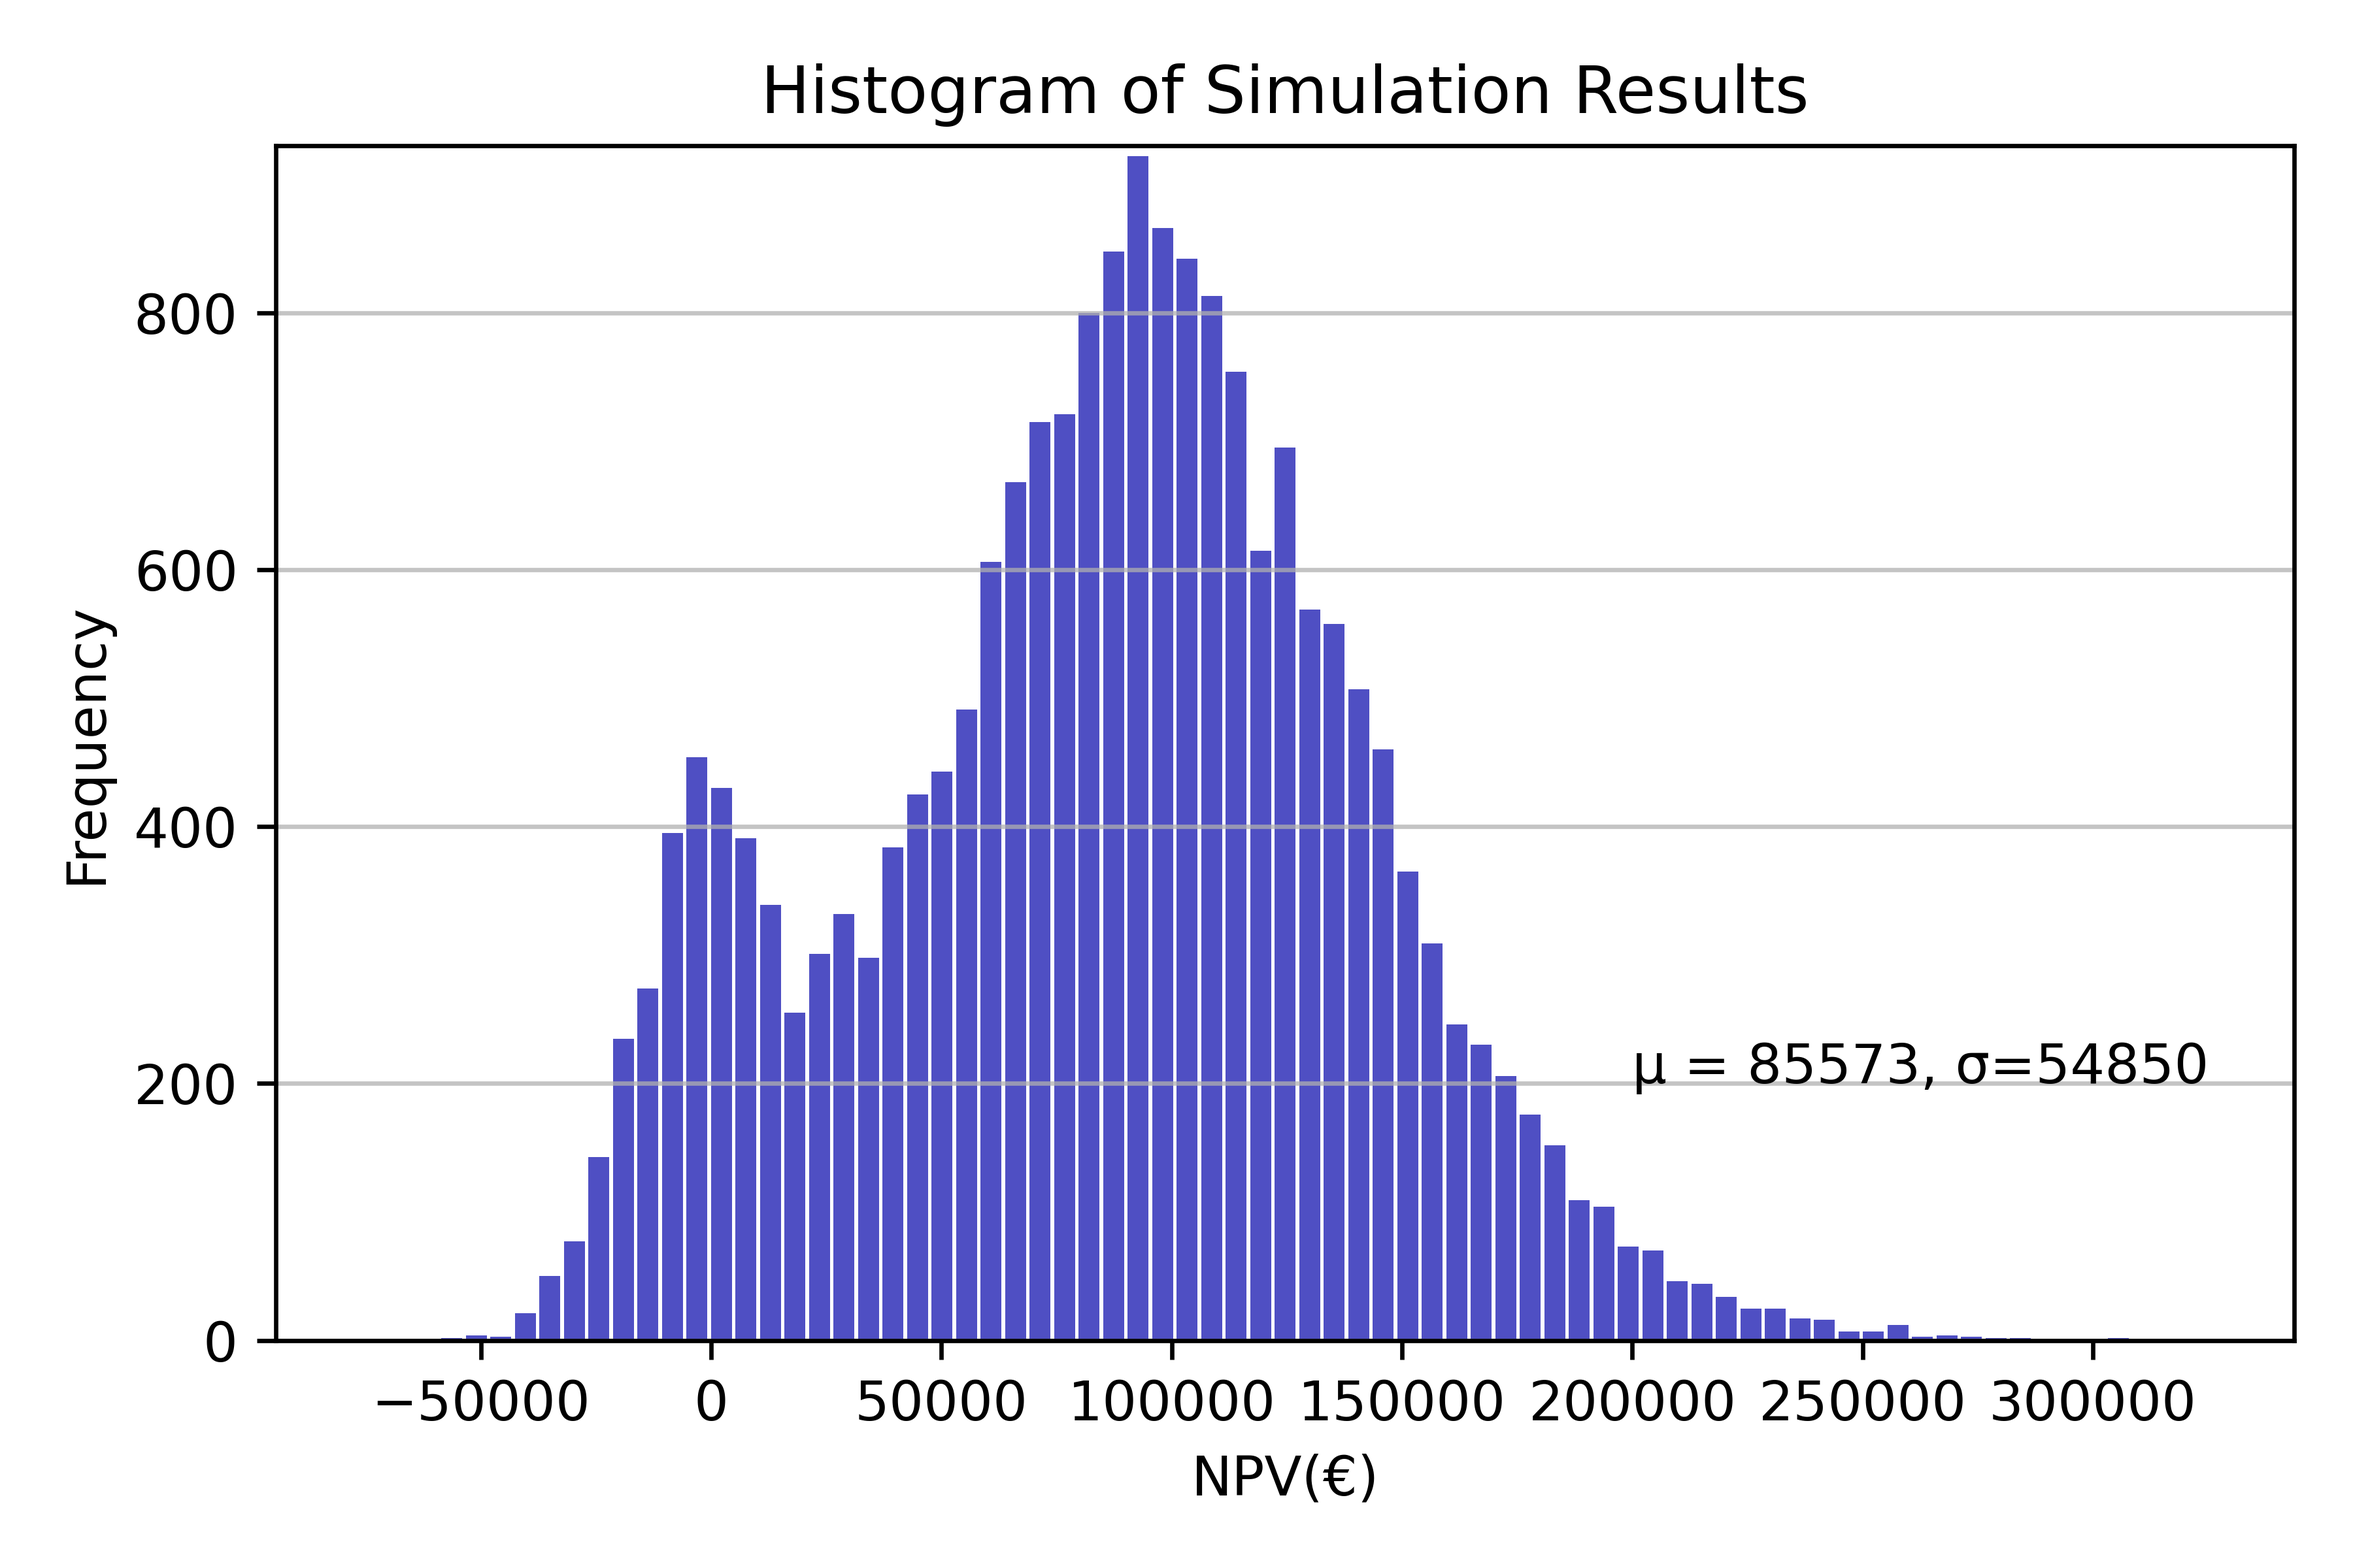
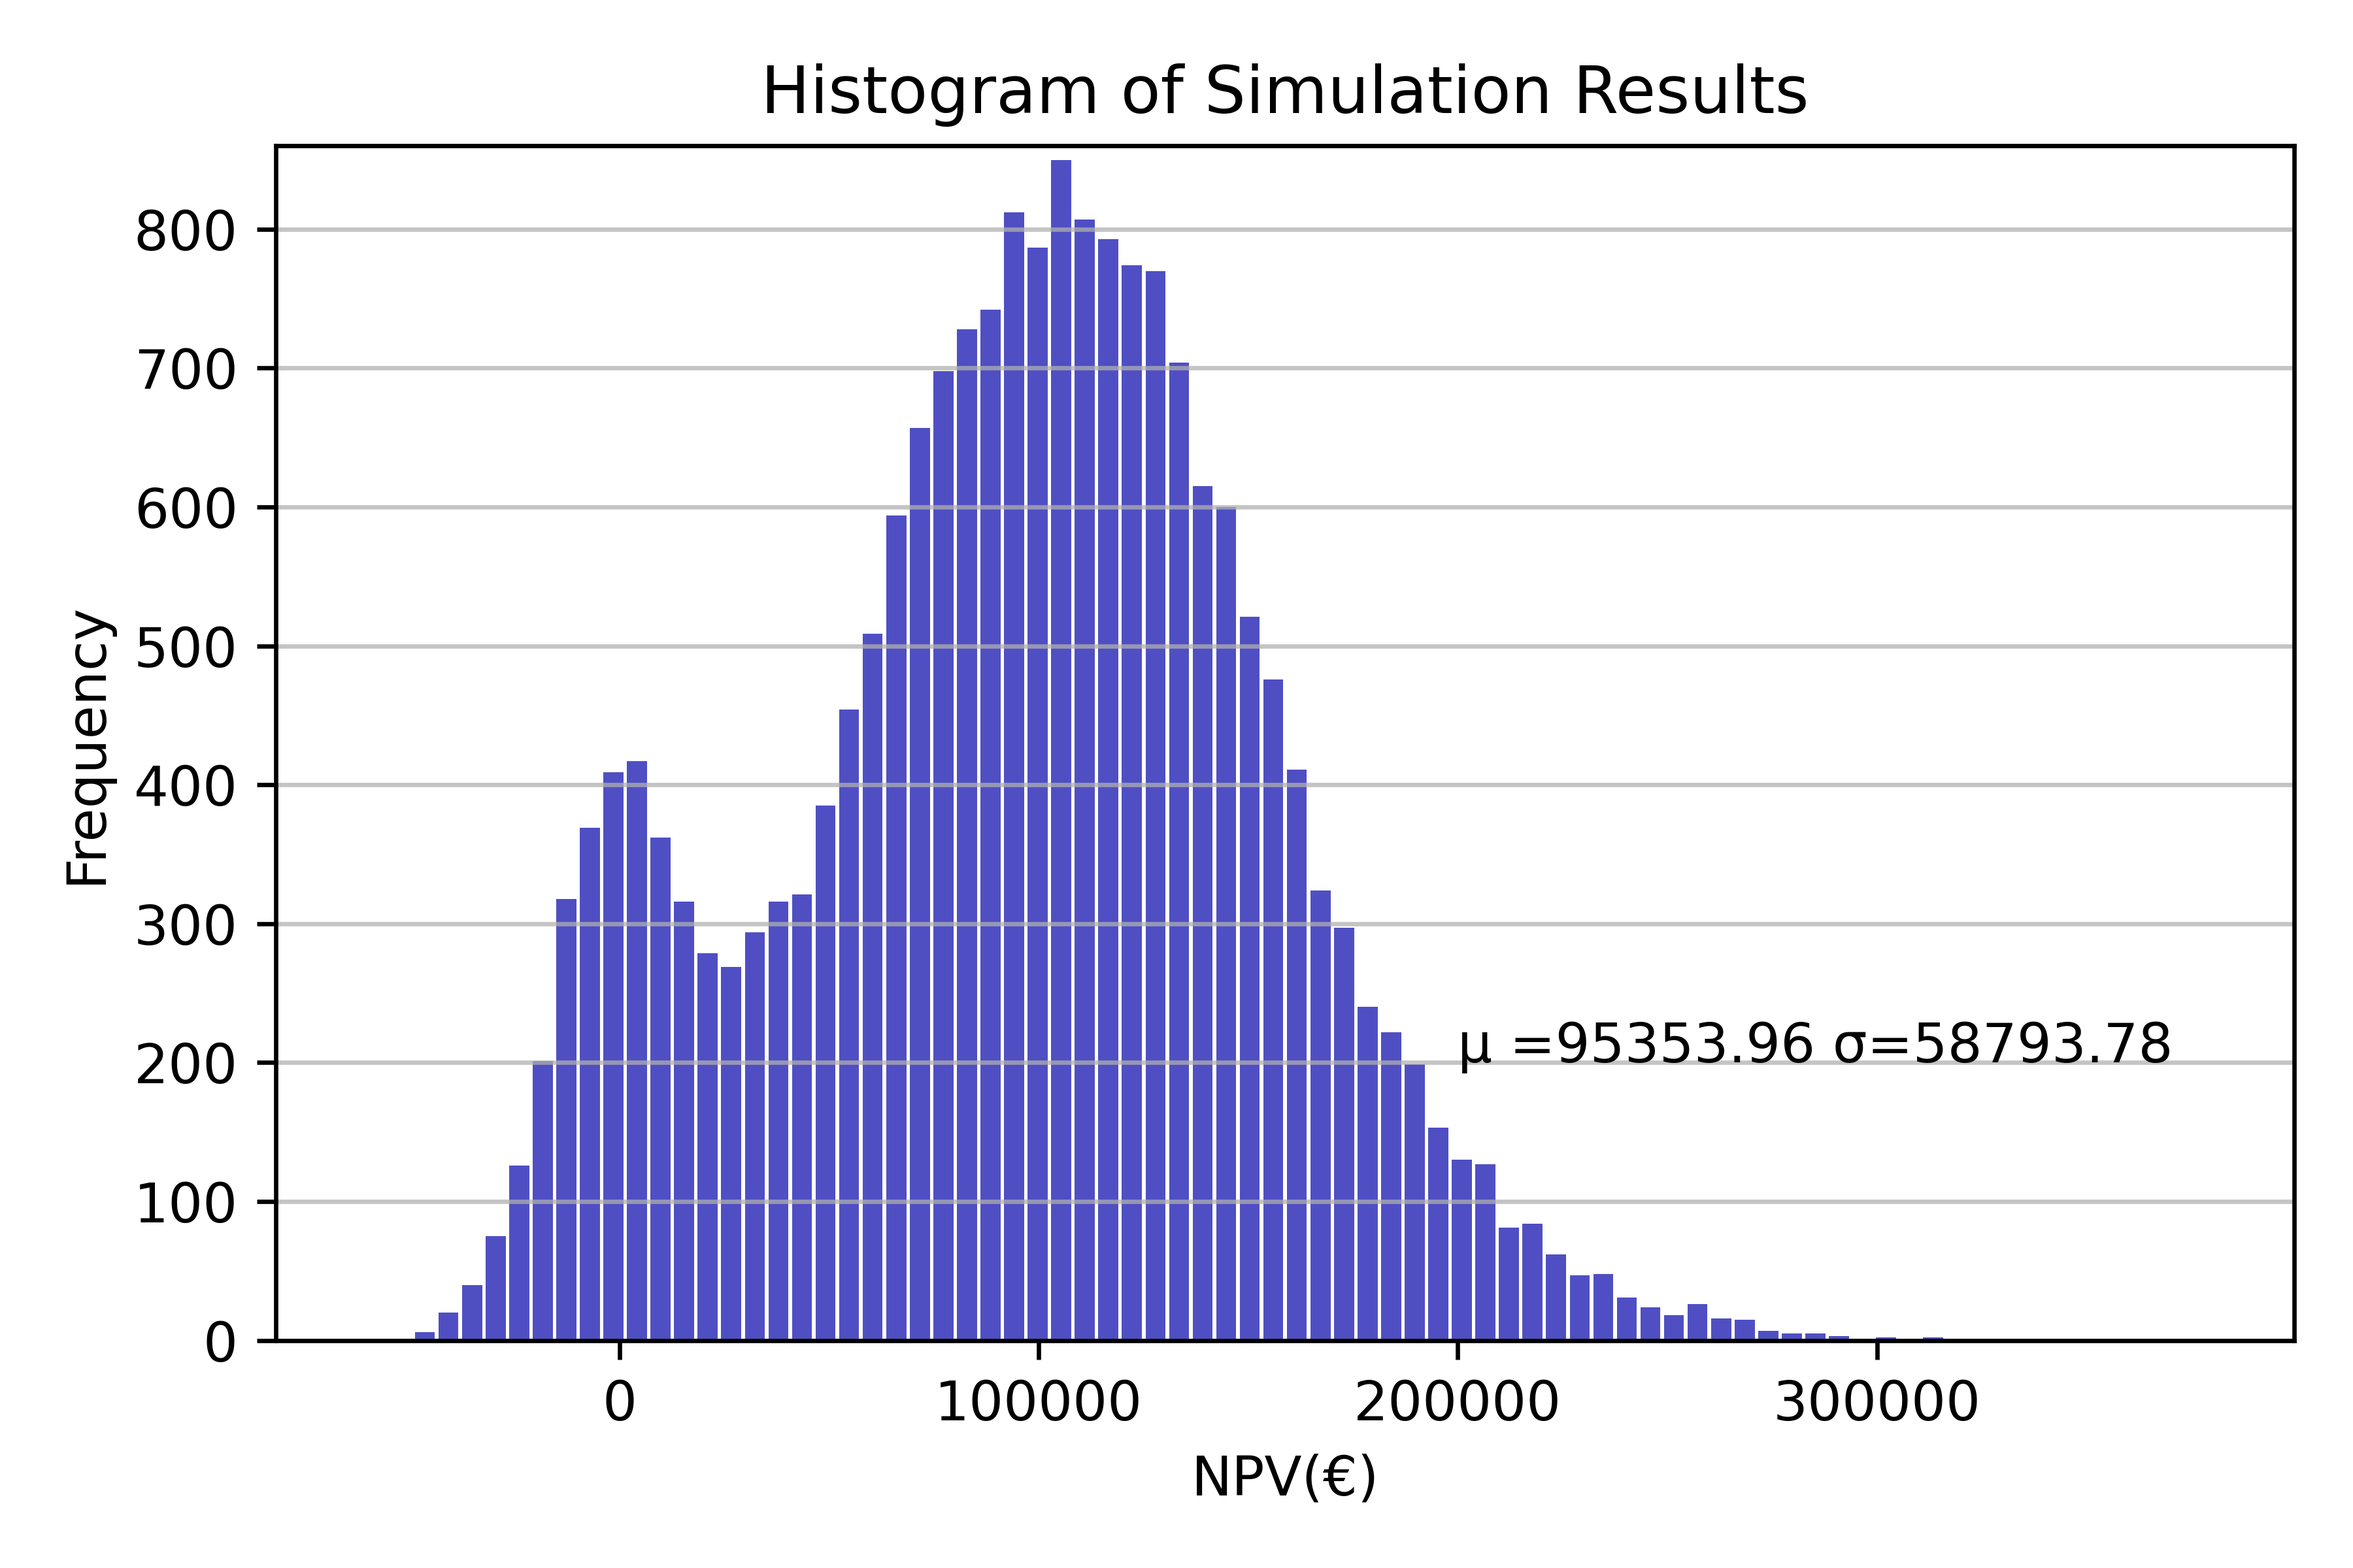
Fixed a mistake in the weibull calculation

diff --git a/simple-MC-sim.py b/simple-MC-sim.py
@@ -9,7 +9,7 @@ Created on Mon Jun 14 14:47:52 2021
 import numpy as np
 import random
 import matplotlib.pyplot as plt
-from statistics import mean, quantiles
+from statistics import mean, quantiles, stdev
 import scipy.stats
 
 # A simple Monte Carlo simulation representing a risk-neutral investor.
@@ -40,9 +40,9 @@ for i in range(1, iterations):
     initial_investment = np.random.gamma(15.28, 2557, 1)[0] #mean 39,100, σ = 10,000
     discount_rate = np.random.uniform(0.0, 5.0) 
     #The Weibull distribution has 2 parameters, but scipy uses just one.
-    #The 'c' variable is the shape (5, not too extreme)
-    #and you multiply by λ to obtain the mean (the function returns values 0–1)
-    time_period = int(scipy.stats.weibull_min.rvs(5, size=1)[0]*15)
+    #The 'c' variable is the shape (5, not too extreme) and λ = 1 (implicit)
+    #Multiply by 16.34 to obtain mean = 15. 15/Γ(1+1/5) = 16.34
+    time_period = int(scipy.stats.weibull_min.rvs(5, size=1)[0]*16.34)
     cashflow = 0
     event_1 = random.random()
     event_2 = random.random()
@@ -82,6 +82,7 @@ plt.xlabel("Simulation run number")
 plt.ylabel("NPV in €")
 plt.tight_layout() #Needed to avoid truncating the graph
 plt.savefig("Monte-Carlo-results.png", dpi=600)
+plt.close() #don't forget this line
 
 #Make a histogram
 n, bins, patches = plt.hist(x=results, bins='auto', color='#0504aa',
@@ -90,7 +91,7 @@ plt.grid(axis='y', alpha=0.75)
 plt.xlabel('NPV(€)')
 plt.ylabel('Frequency')
 plt.title('Histogram of Simulation Results')
-plt.text(200000, 200, 'μ = 85573, σ=54850')
+plt.text(200000, 200, 'μ =' + str(round(mean(results), 2)) +' ' + 'σ=' + str(round(stdev(results), 2)))
 maxfreq = n.max()
 # Set a clean upper y-axis limit.
 plt.ylim(ymax=np.ceil(maxfreq / 10) * 10 if maxfreq % 10 else maxfreq + 10)
